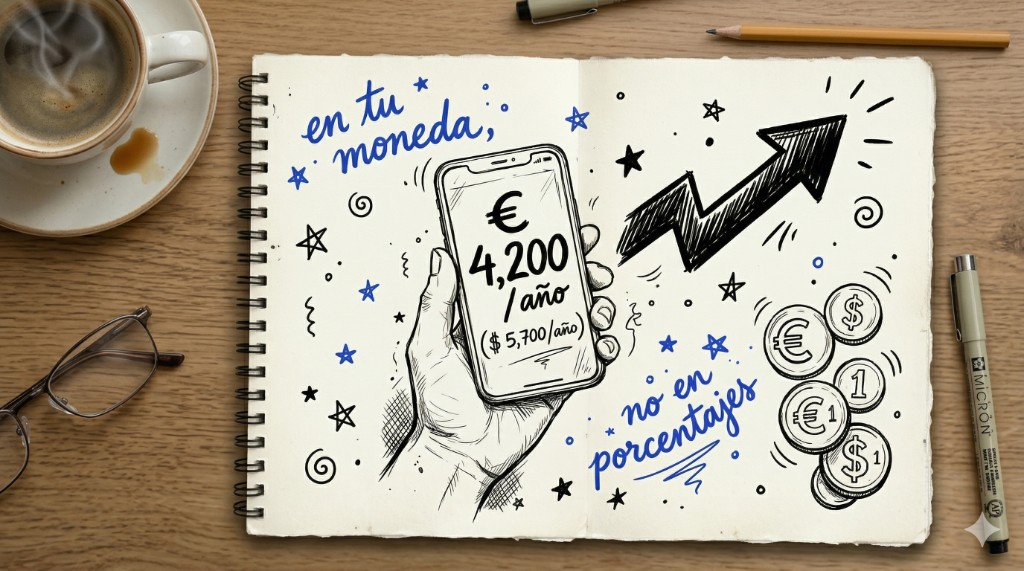
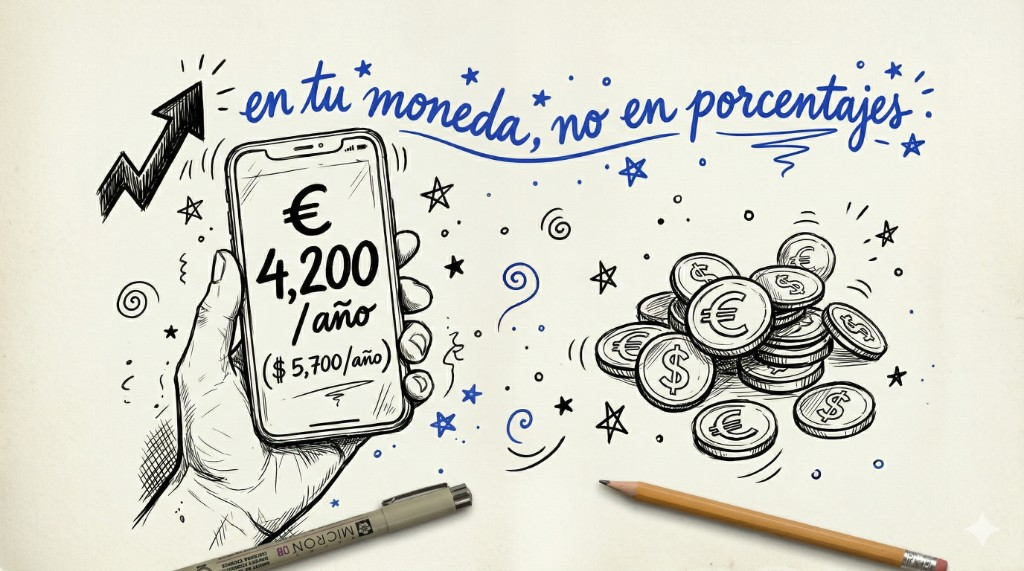
Landing: hero centrado con nuevo copy, overlay y CTA; imagen feature 1 actualizada
Made-with: Cursor

diff --git a/public/landing.css b/public/landing.css
@@ -59,7 +59,8 @@ a {
   min-height: 100dvh;
   display: flex;
   flex-direction: column;
-  justify-content: flex-end;
+  justify-content: center;
+  align-items: center;
   padding: 1.5rem 1.25rem 2.5rem;
   background-color: #1a1a1a;
 }
@@ -80,18 +81,20 @@ a {
   z-index: 1;
   pointer-events: none;
   background: linear-gradient(
-    180deg,
-    rgba(26, 26, 26, 0.06) 0%,
-    rgba(26, 26, 26, 0.22) 38%,
-    rgba(26, 26, 26, 0.78) 78%,
-    rgba(26, 26, 26, 0.88) 100%
+    to right,
+    rgba(0, 0, 0, 0.38) 0%,
+    transparent 100%
   );
 }
 
 .hero__inner {
   position: relative;
   z-index: 2;
+  width: 100%;
   max-width: 40rem;
+  margin-left: auto;
+  margin-right: auto;
+  text-align: center;
 }
 
 @media (prefers-reduced-motion: reduce) {
@@ -102,11 +105,9 @@ a {
   .hero {
     background-color: #1a1a1a;
     background-image: linear-gradient(
-      180deg,
-      rgba(26, 26, 26, 0.06) 0%,
-      rgba(26, 26, 26, 0.22) 38%,
-      rgba(26, 26, 26, 0.78) 78%,
-      rgba(26, 26, 26, 0.88) 100%
+      to right,
+      rgba(0, 0, 0, 0.38) 0%,
+      transparent 100%
     );
   }
 }
@@ -133,33 +134,39 @@ a {
   letter-spacing: -0.02em;
   color: #fff;
   text-wrap: balance;
-  text-shadow: 0 2px 28px rgba(0, 0, 0, 0.55);
+  text-shadow: 0 2px 12px rgba(0, 0, 0, 0.45);
 }
 
 .hero__sub {
-  margin: 0 0 1.5rem;
+  margin: 0 auto 1.5rem;
   font-size: 1.05rem;
-  max-width: 32ch;
-  color: rgba(255, 255, 255, 0.94);
-  text-shadow: 0 1px 16px rgba(0, 0, 0, 0.45);
+  max-width: 36rem;
+  color: rgba(255, 255, 255, 0.85);
 }
 
 .hero__actions {
   display: flex;
   flex-direction: column;
-  align-items: flex-start;
+  align-items: center;
   gap: 0.75rem;
+}
+
+.hero__actions .btn--primary {
+  font-weight: 700;
+  color: #1a1a1a;
+  background: #ffd233;
 }
 
 .hero__skip {
   font-size: 0.875rem;
-  color: rgba(255, 255, 255, 0.85);
+  color: rgba(255, 255, 255, 0.7);
   text-decoration: underline;
   text-underline-offset: 3px;
+  background: none;
 }
 
 .hero__skip:hover {
-  color: #fff;
+  color: rgba(255, 255, 255, 0.85);
 }
 
 /* —— Buttons —— */

diff --git a/public/landing.html b/public/landing.html
@@ -30,17 +30,17 @@
           <source src="/hero-bg.mp4" type="video/mp4" />
         </video>
         <div class="hero__inner">
-          <span class="hero__eyebrow">Para inversores en México y España</span>
+          <span class="hero__eyebrow">Tu dinero, tu moneda</span>
           <h1 class="hero__title">
-            Deja de conformarte con solo CETES o el depósito al 0,1&nbsp;%
+            Tu ahorro puede rendir más. Mucho más.
           </h1>
           <p class="hero__sub">
-            Compara rendimientos reales en tu moneda (MXN o EUR) frente a lo que
-            ya conoces. Sin porcentajes vacíos: números que puedes entender.
+            Compara DeFi contra lo que ya conoces — en pesos, en euros, en
+            números que entiendes.
           </p>
           <div class="hero__actions">
-            <a class="btn btn--primary" href="/comparador">Abrir comparador</a>
-            <a class="hero__skip" href="#features">Ver qué ofrece Redito</a>
+            <a class="btn btn--primary" href="/comparador">Ver cuánto puedo ganar</a>
+            <a class="hero__skip" href="#features">¿Cómo funciona?</a>
           </div>
         </div>
       </header>
